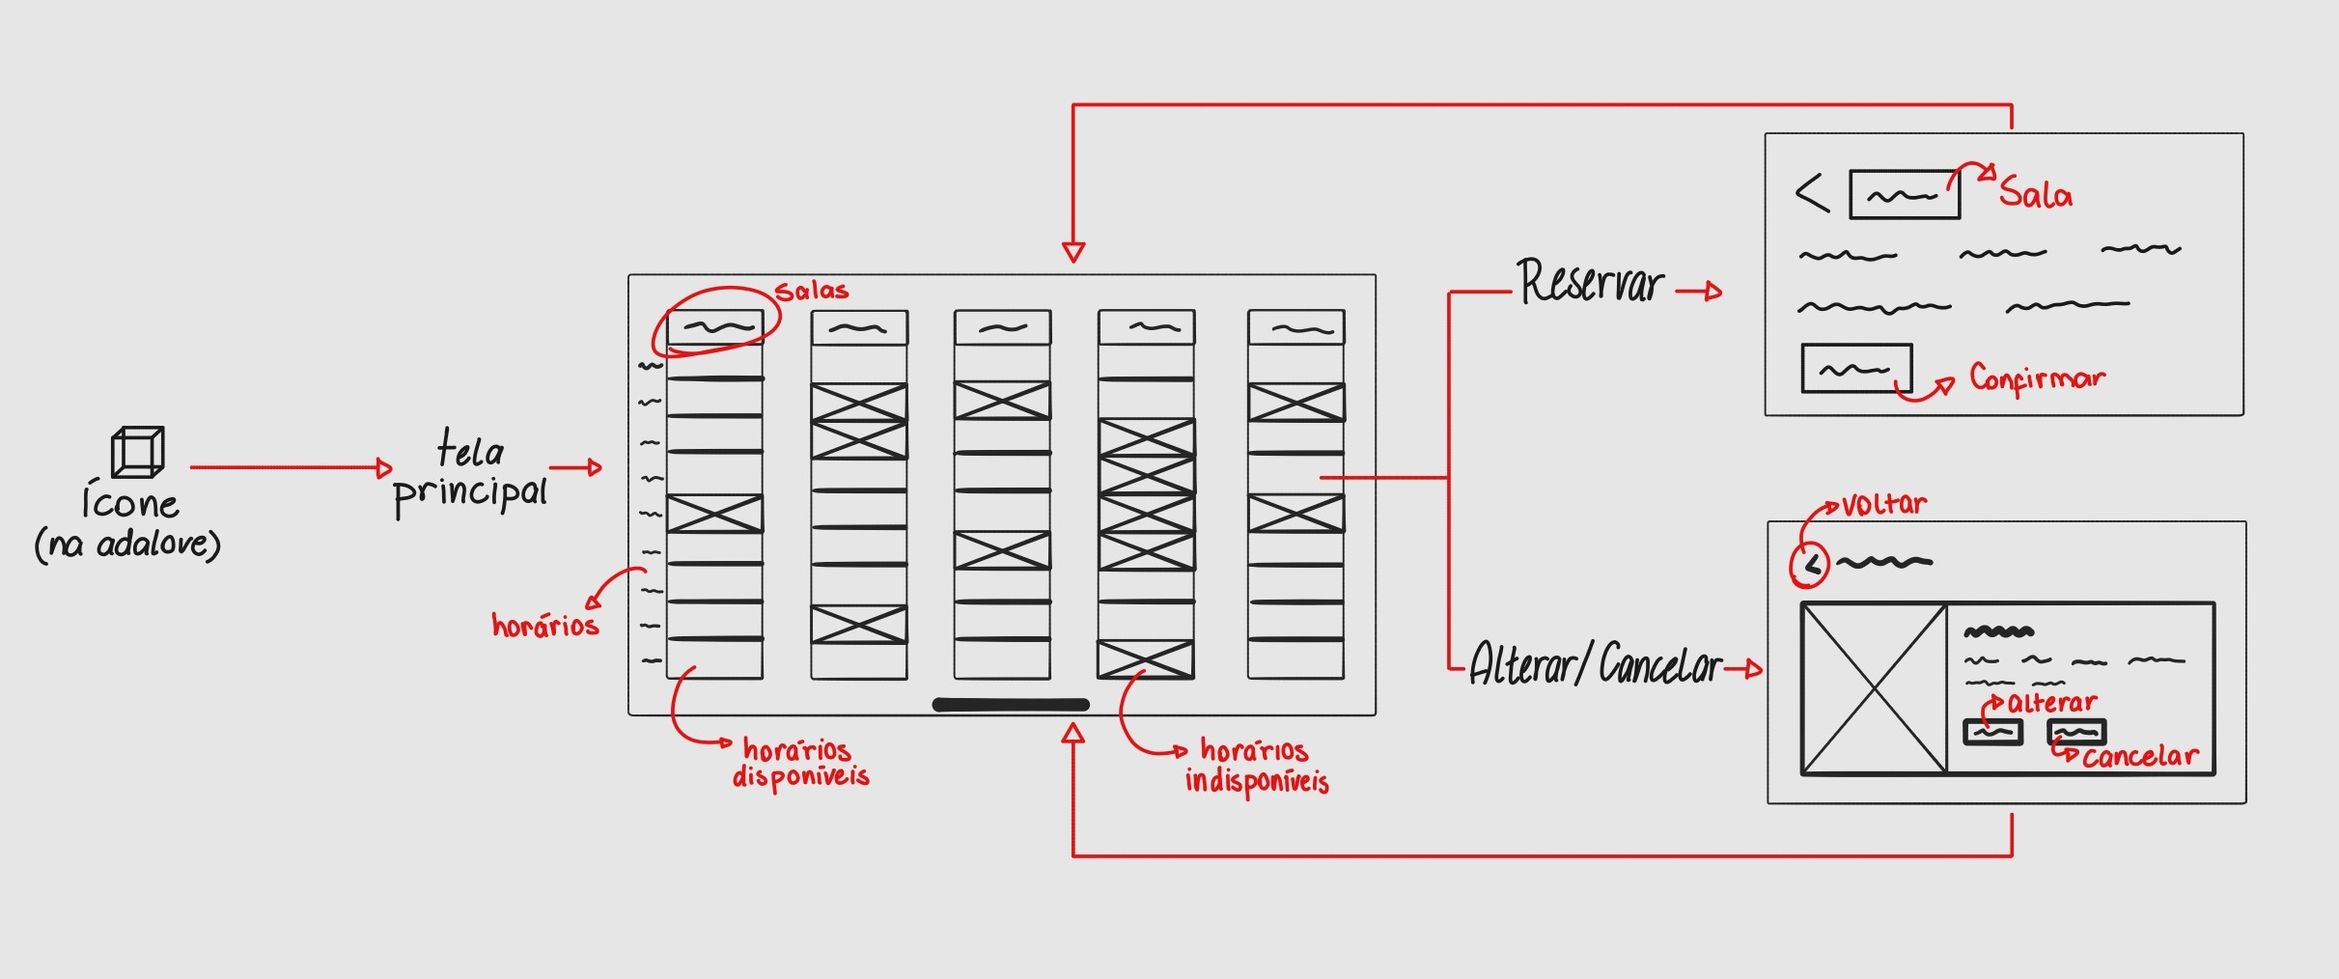
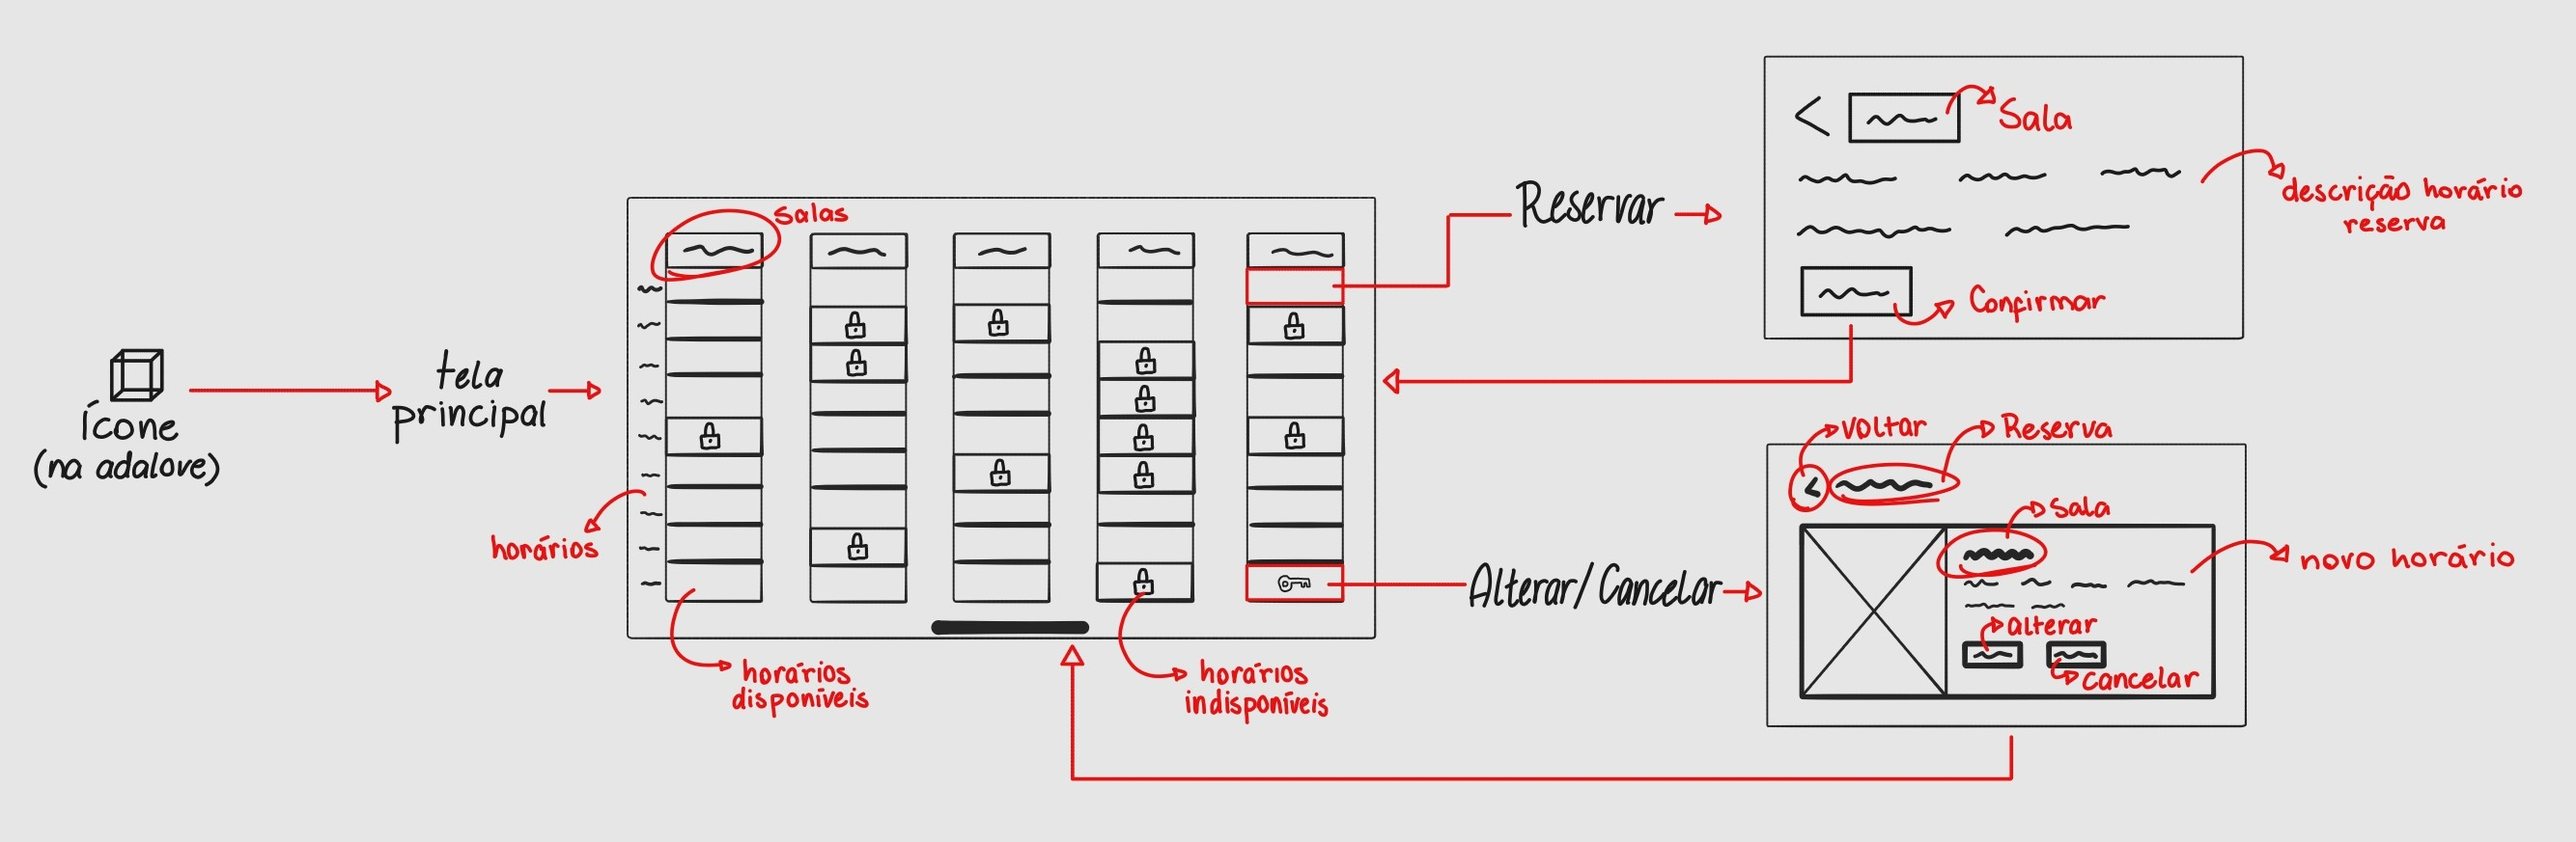
docs: updated section 3.3 and wireframe images

Changed region(s): [[0.0, 0.0619, 0.9905, 0.9278], [0.8667, 0.3093, 0.8976, 0.3402]]

diff --git a/documentos/wad.md b/documentos/wad.md
@@ -154,13 +154,35 @@ ALTER TABLE "bookings" ADD FOREIGN KEY ("id_user") REFERENCES "rooms" ("id");
 
 A seguir, são apresentados os wireframes das principais funcionalidades, que se relacionam diretamente às User Stories (US).
 
-#### Tela Principal
-
-A tela principal se relaciona diretamente com a **US01**, pois mostra as salas disponíveis para reserva, colaborando com o planejamento do(a) estudante.
+#### Navegabilidade
+Para atender os requisitos do projeto enquanto solução para a persona que representa os alunos do Inteli, foi desenvolvido o wireframe abaixo:
 
 <div align="center">
 
-<sub>Figura 3 - Wireframe Tela Principal </sub>
+<sub>Figura 3 - Wireframe Navegação entre Telas </sub>
+</div>
+
+<img src="../assets/assets_WAD/wireframeCompleto.jpg">
+
+<div align="center">
+</div>
+
+<div align="center">
+<sub>Fonte: Autoria própria (2025)</sub>
+</div>
+<br>
+
+Nesse wireframe, a tela principal será acessada na Adalove, plataforma utilizada pelos estudantes do Inteli, por meio de um widget no header, permitindo que os alunos selecionem um horário disponível da sala que desejam reservar. Assim, serão direcionados à uma tela de confirmação, que quando realizada a reserva, os redirecionam à tela principal de visualizaçao da disponibilidade de salas. Além disso, também é permitido que o usuário altere ou cancele um agendamento feito na tela principal.
+
+#### Tela Principal
+
+A tela principal se relaciona diretamente com a **US01**, pois mostra as salas disponíveis para reserva, colaborando com o planejamento do(a) estudante. Nela, é possível visualizar as salas, que se encontram nas coluanas, bem como os horários disponpiveis nas linhas para reserva. 
+
+Cada item dessa "matriz" é clicável, e leva para as telas que serão detalhadas a seguir, bem parecido com o Google Calendar, onde as colunas são na verdade os dias da semana, o que nesse caso não se aplica visto que as salas só podem ser reservadas para o dia em questão. 
+
+<div align="center">
+
+<sub>Figura 4 - Wireframe Tela Principal </sub>
 </div>
 
 <img src="../assets/assets_WAD/telaPrincipal.jpg">
@@ -179,7 +201,7 @@ A partir da tela principal, é possível selecionar um horário disponível na s
 
 <div align="center">
 
-<sub>Figura 4 - Wireframe Tela de Reserva </sub>
+<sub>Figura 5 - Wireframe Tela de Reserva </sub>
 </div>
 
 <img src="../assets/assets_WAD/telaReserva.jpg">
@@ -197,7 +219,7 @@ Por fim, também na tela principal, ao clicar na reserva feita, o/a estudante é
 
 <div align="center">
 
-<sub>Figura 5 - Wireframe Tela de Cancelamento/Alteração </sub>
+<sub>Figura 6 - Wireframe Tela de Cancelamento/Alteração </sub>
 </div>
 
 <img src="../assets/assets_WAD/telaCancelarAlterar.jpg">
@@ -210,25 +232,7 @@ Por fim, também na tela principal, ao clicar na reserva feita, o/a estudante é
 </div>
 <br>
 
-#### Navegabilidade
-Desse modo, as possíveis navegações entre telas estão representadas a seguir:
-
-<div align="center">
-
-<sub>Figura 6 - Wireframe Navegação entre Telas </sub>
-</div>
-
-<img src="../assets/assets_WAD/wireframeCompleto.jpg">
-
-<div align="center">
-</div>
-
-<div align="center">
-<sub>Fonte: Autoria própria (2025)</sub>
-</div>
-<br>
-
-[Link complementar wireframe](https://drive.google.com/file/d/1_qHyUGxFzGBCzPKAgbrjRGp-0SB0HJKa/view?usp=sharing)
+[Link complementar wireframe](https://drive.google.com/file/d/1gbPN1vG688K-E2yLvHXdORcSTWxpqRHO/view?usp=sharing)
 
 ### 3.4. Guia de estilos (Semana 05)
 
